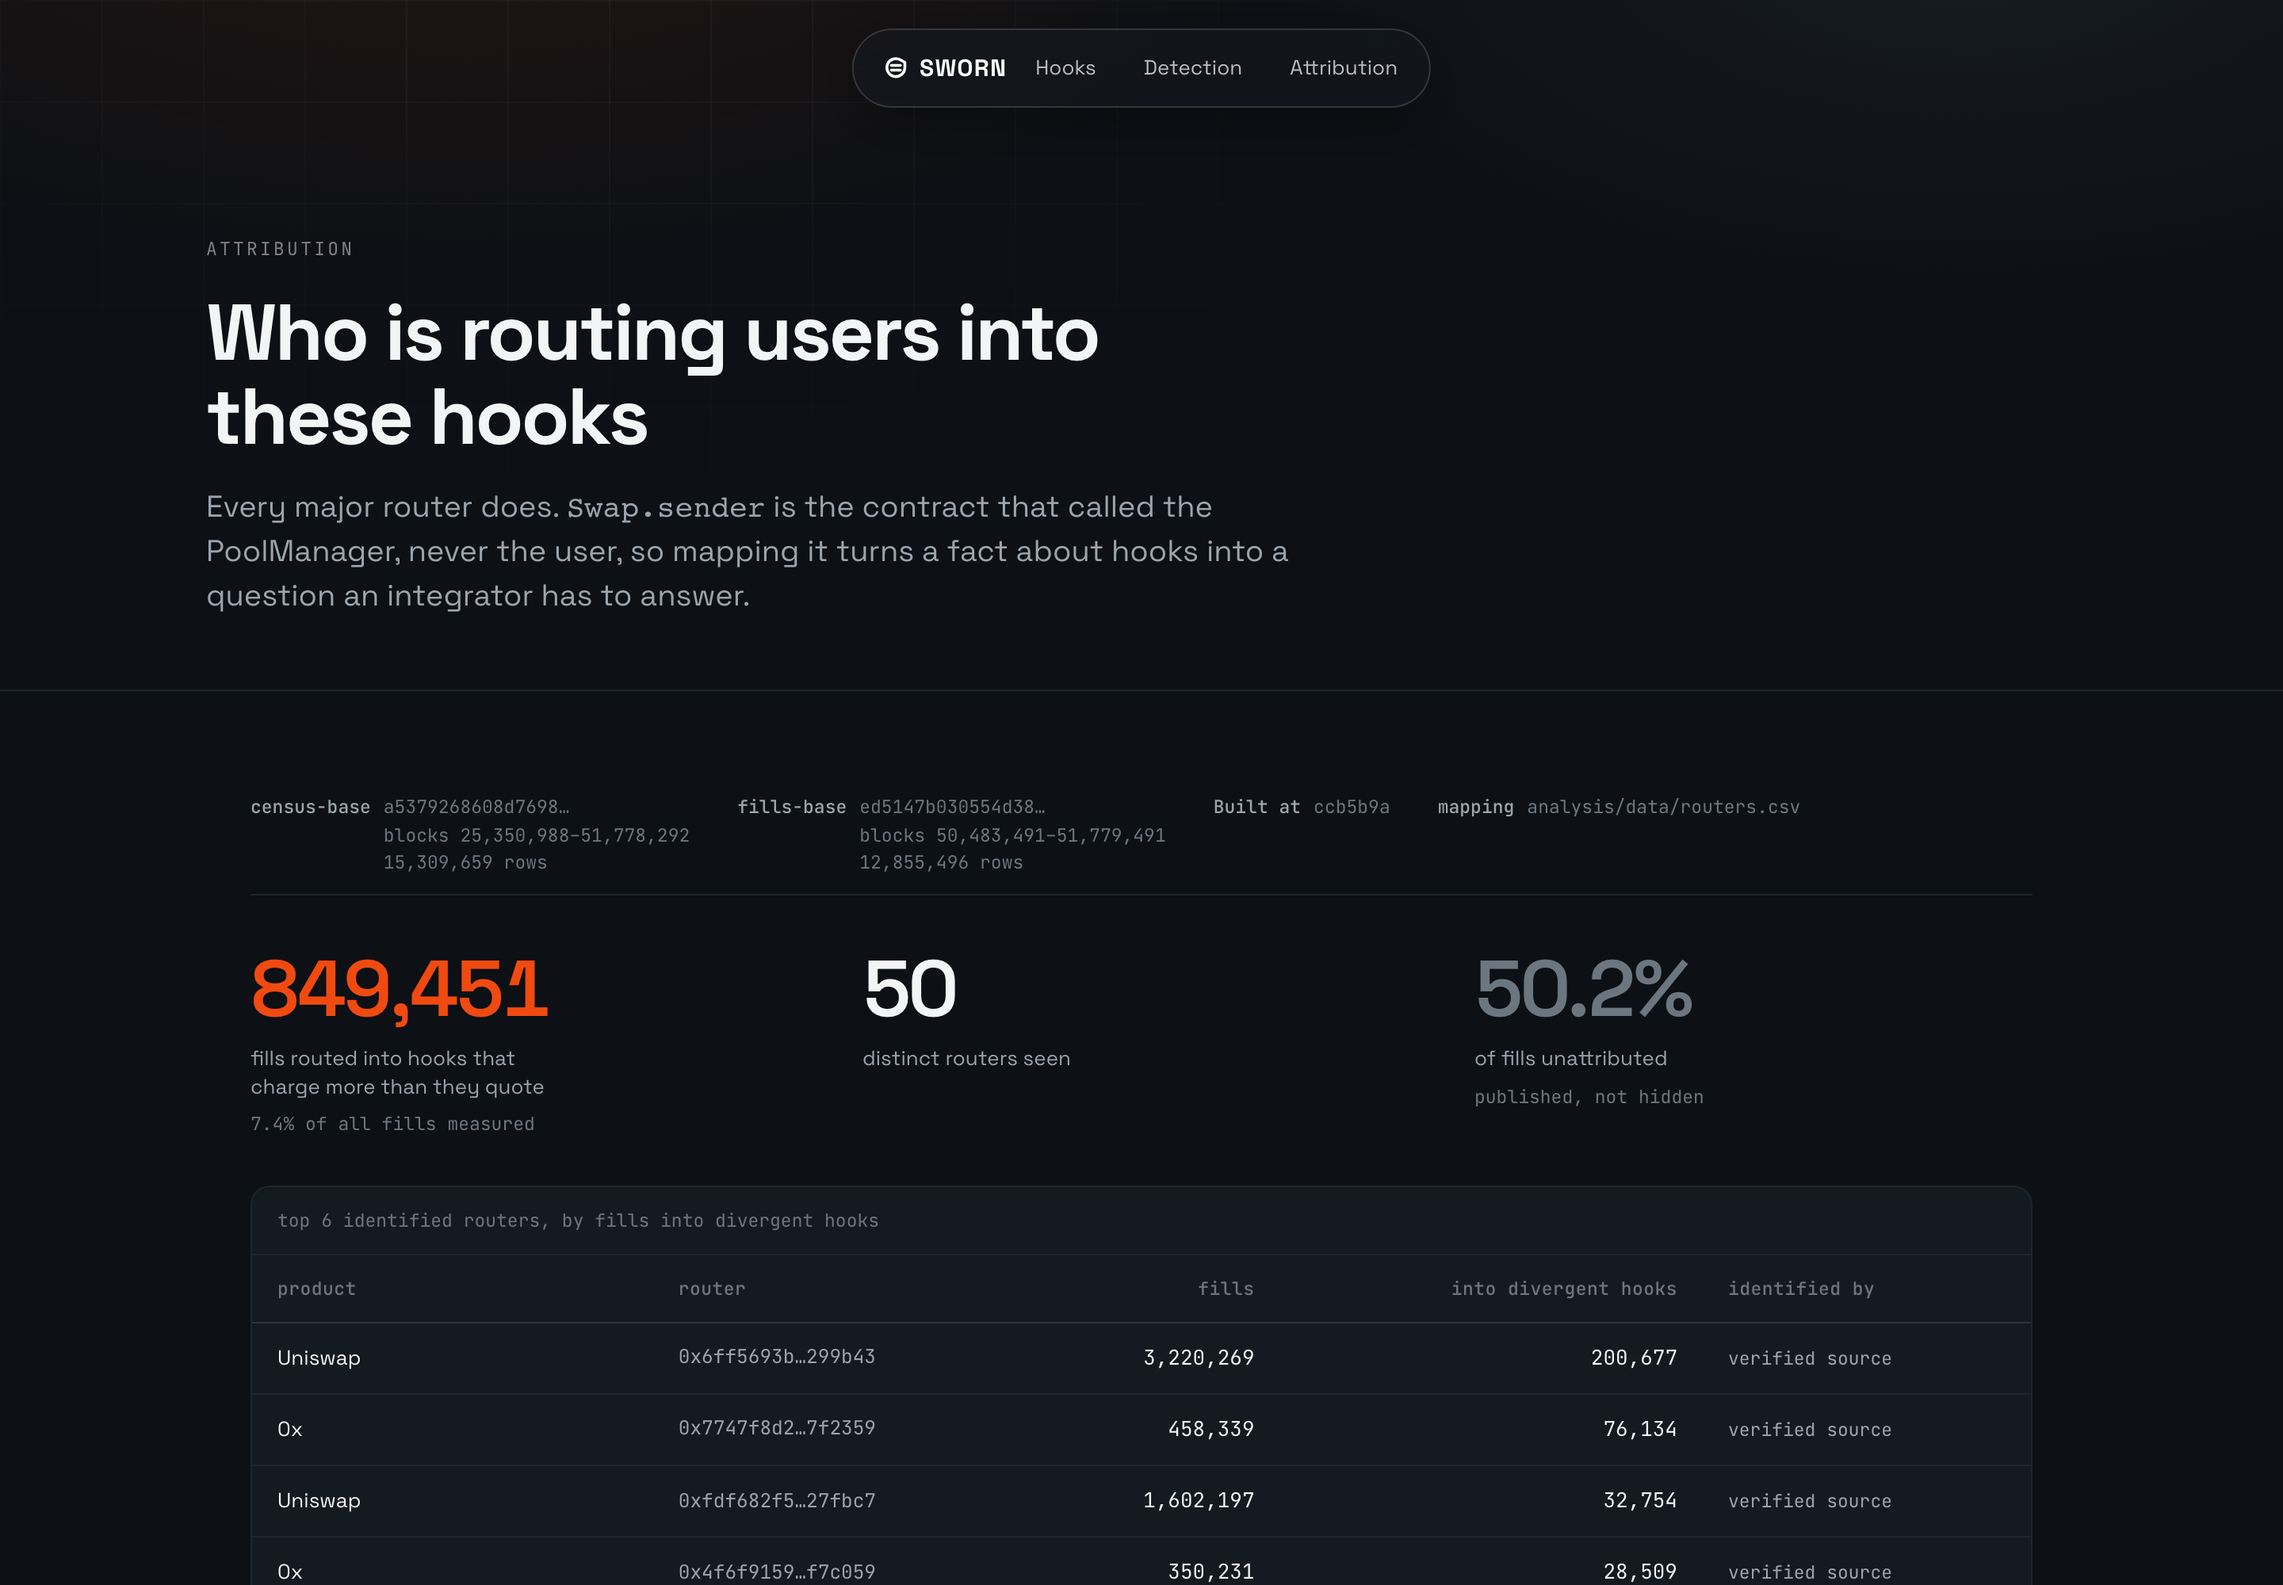
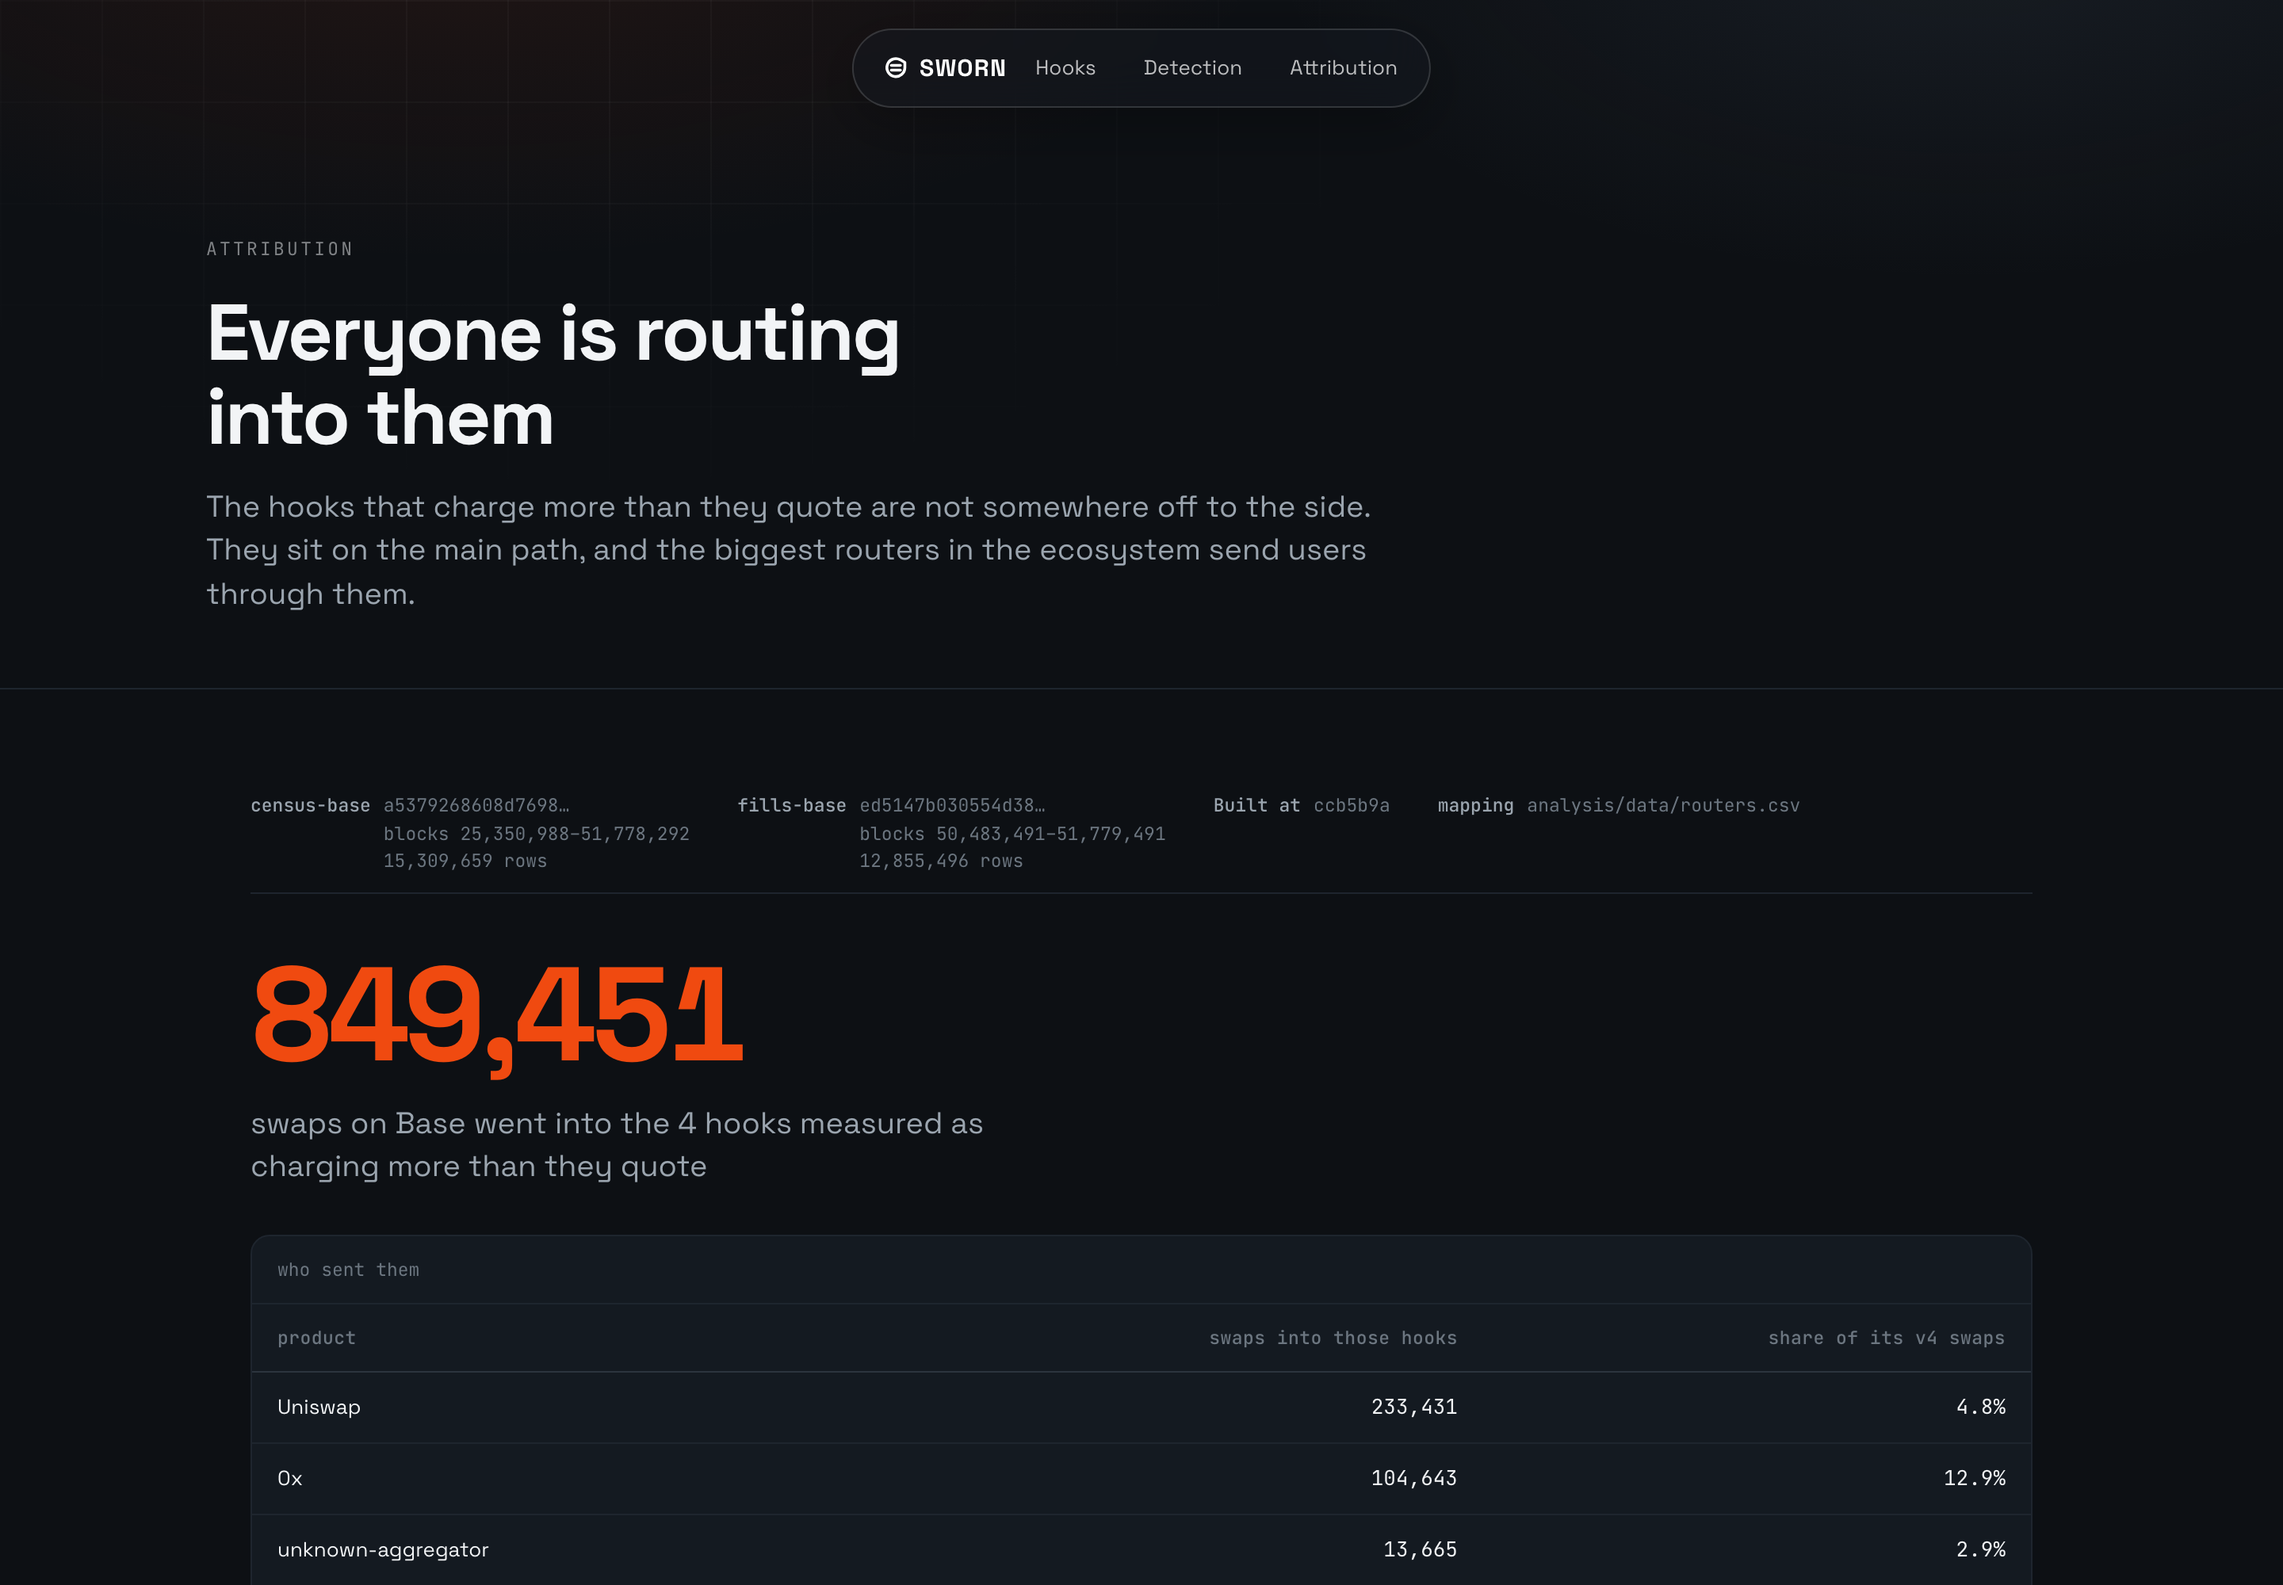
attribution says one thing: everyone routes into them

diff --git a/app/src/app/attribution/page.tsx b/app/src/app/attribution/page.tsx
@@ -1,28 +1,35 @@
 import { Band, Missing } from '@/components/Band';
 import { PageHead } from '@/components/PageHead';
-import { attribution, fmt, pct, short } from '@/lib/results';
+import { attribution, divergence, fmt, pct } from '@/lib/results';
 
 export default function Attribution() {
   const a = attribution();
+  const d = divergence();
   const products = a?.products ?? [];
+  const divergentHooks = (d?.hooks ?? []).filter((h) => h.divergent).length;
 
-  // The column that matters is fills into hooks *measured as charging more than they
-  // quote*. "Into hooked pools" is close to meaningless on Base, where 98.5% of pools
-  // carry a hook. Showing it beside a named company implied a harm the data did not.
-  const labelled = products
-    .filter((p) => p.product !== 'unlabeled')
-    .sort((x, y) => y.fills_into_divergent - x.fills_into_divergent)
-    .slice(0, 12);
+  // One row per product, not per router contract. Uniswap and 0x each run more than one,
+  // and splitting them made the table longer without making it say anything more.
+  const byProduct = new Map<string, { into: number; total: number }>();
+  for (const p of products) {
+    if (p.product === 'unlabeled') continue;
+    const row = byProduct.get(p.product) ?? { into: 0, total: 0 };
+    row.into += p.fills_into_divergent;
+    row.total += p.fills_total ?? 0;
+    byProduct.set(p.product, row);
+  }
+  const ranked = [...byProduct.entries()]
+    .filter(([, v]) => v.into > 0)
+    .sort((x, y) => y[1].into - x[1].into)
+    .slice(0, 6);
 
-  const intoDivergent = products.reduce((n, p) => n + p.fills_into_divergent, 0);
-  const totalFills = products.reduce((n, p) => n + (p.fills_total ?? 0), 0);
+  const total = products.reduce((n, p) => n + p.fills_into_divergent, 0);
 
   return (
     <>
-      <PageHead eyebrow="Attribution" title="Who is routing users into these hooks">
-        Every major router does. <code>Swap.sender</code> is the contract that called the
-        PoolManager, never the user, so mapping it turns a fact about hooks into a question an
-        integrator has to answer.
+      <PageHead eyebrow="Attribution" title="Everyone is routing into them">
+        The hooks that charge more than they quote are not somewhere off to the side. They sit on
+        the main path, and the biggest routers in the ecosystem send users through them.
       </PageHead>
       <div className="sheet">
         <Band meta={a?.meta ?? null} extra={[['mapping', 'analysis/data/routers.csv']]}>
@@ -30,55 +37,39 @@ export default function Attribution() {
             <Missing pipeline="python -m sworn_analysis.pipelines.d_attribution" />
           ) : (
             <>
-              <div className="figures">
-                <div className="figure">
-                  <div className="n bad">{fmt(intoDivergent)}</div>
-                  <div className="k">fills routed into hooks that charge more than they quote</div>
-                  <div className="note">
-                    {pct(intoDivergent / totalFills)} of all fills measured
-                  </div>
-                </div>
-                <div className="figure">
-                  <div className="n">{fmt(products.length)}</div>
-                  <div className="k">distinct routers seen</div>
-                </div>
-                <div className="figure">
-                  <div className="n grey">{pct(a.unlabeled_share)}</div>
-                  <div className="k">of fills unattributed</div>
-                  <div className="note">published, not hidden</div>
+              <div className="bignum">
+                <div className="bignum-n bad">{fmt(total)}</div>
+                <div className="bignum-k">
+                  swaps on Base went into the {divergentHooks} hooks measured as charging more than
+                  they quote
                 </div>
               </div>
 
               <div className="scroll">
                 <table className="grid">
-                  <caption>
-                    top {labelled.length} identified routers, by fills into divergent hooks
-                  </caption>
+                  <caption>who sent them</caption>
                   <thead>
                     <tr>
                       <th>Product</th>
-                      <th>Router</th>
-                      <th className="n">Fills</th>
-                      <th className="n">Into divergent hooks</th>
-                      <th>Identified by</th>
+                      <th className="n">Swaps into those hooks</th>
+                      <th className="n">Share of its v4 swaps</th>
                     </tr>
                   </thead>
                   <tbody>
-                    {labelled.map((p) => (
-                      <tr key={p.router}>
-                        <td>{p.product}</td>
-                        <td className="addr">{p.router ? short(p.router) : '. '}</td>
-                        <td className="n">{fmt(p.fills_total)}</td>
-                        <td className={p.fills_into_divergent > 0 ? 'n bad' : 'n'}>
-                          {p.fills_into_divergent > 0 ? fmt(p.fills_into_divergent) : '. '}
-                        </td>
-                        <td>
-                          <span className={p.confidence >= 1 ? 'mark on' : 'mark'}>
-                            {p.confidence >= 1 ? 'verified source' : `confidence ${p.confidence}`}
-                          </span>
-                        </td>
+                    {ranked.map(([name, v]) => (
+                      <tr key={name}>
+                        <td>{name}</td>
+                        <td className="n bad">{fmt(v.into)}</td>
+                        <td className="n">{pct(v.into / v.total, 1)}</td>
                       </tr>
                     ))}
+                    <tr>
+                      <td className="dim">routers nobody has identified</td>
+                      <td className="n dim">
+                        {fmt(total - ranked.reduce((n, [, v]) => n + v.into, 0))}
+                      </td>
+                      <td className="n dim">{pct(a.unlabeled_share)} of all fills</td>
+                    </tr>
                   </tbody>
                 </table>
               </div>
@@ -86,13 +77,14 @@ export default function Attribution() {
               <div className="caveat">
                 <p>
                   <strong>This is not an accusation.</strong> These products are doing the normal
-                  thing, which is to trust a quote. That is the point: the gap is invisible from
-                  where a router stands, so routing around it cannot be a matter of diligence.
+                  thing, which is to trust a quote. That is the whole point: the gap is invisible
+                  from where a router stands, so avoiding it cannot be a matter of diligence.
                 </p>
                 <p>
-                  {pct(a.unlabeled_share)} of fills come from routers nobody has identified, and
-                  that share is reported rather than dropped: an attribution table that hides its
-                  own coverage is not evidence.
+                  How this is counted: every v4 swap logs the contract that called the PoolManager,
+                  never the person swapping. Mapping those contracts to the products that run them
+                  is what this table does, and {pct(a.unlabeled_share)} of them are contracts nobody
+                  has mapped. That share is published rather than dropped.
                 </p>
               </div>
             </>

diff --git a/app/test/export.test.ts b/app/test/export.test.ts
@@ -104,10 +104,11 @@ describe('static export', () => {
 
   it('the attribution page publishes its unlabeled share', () => {
     const attribution = result('attribution.json') as { unlabeled_share: number };
-    // The number matters less than its presence: a coverage figure that can be dropped
-    // silently is a coverage figure nobody will notice missing.
     expect(attribution.unlabeled_share).toBeGreaterThan(0);
-    expect(page('attribution')).toMatch(/unattributed|unlabel/i);
+    // Assert the figure, not the wording. A coverage gap that can be dropped silently is
+    // one nobody will notice missing, but the sentence around it is free to change.
+    const shown = `${(attribution.unlabeled_share * 100).toFixed(1)}%`;
+    expect(page('attribution'), `attribution page does not show ${shown}`).toContain(shown);
   });
 
   it('no page claims a hook is clean without a measurement', () => {

diff --git a/app/src/app/globals.css b/app/src/app/globals.css
@@ -1403,3 +1403,29 @@ html.js .reveal.in {
   color: var(--faint);
   max-width: 30ch;
 }
+
+/* A single figure that a section exists to deliver. Bigger than the figure grid, because
+   a page with one point should look like it has one point. */
+.bignum {
+  margin: 34px 0 8px;
+}
+
+.bignum-n {
+  font-size: clamp(46px, 7vw, 84px);
+  font-weight: 700;
+  line-height: 1;
+  letter-spacing: -0.045em;
+  font-variant-numeric: tabular-nums;
+}
+
+.bignum-n.bad {
+  color: var(--signal);
+}
+
+.bignum-k {
+  margin-top: 14px;
+  font-size: var(--t-m);
+  line-height: 1.4;
+  color: var(--ink-2);
+  max-width: 44ch;
+}
